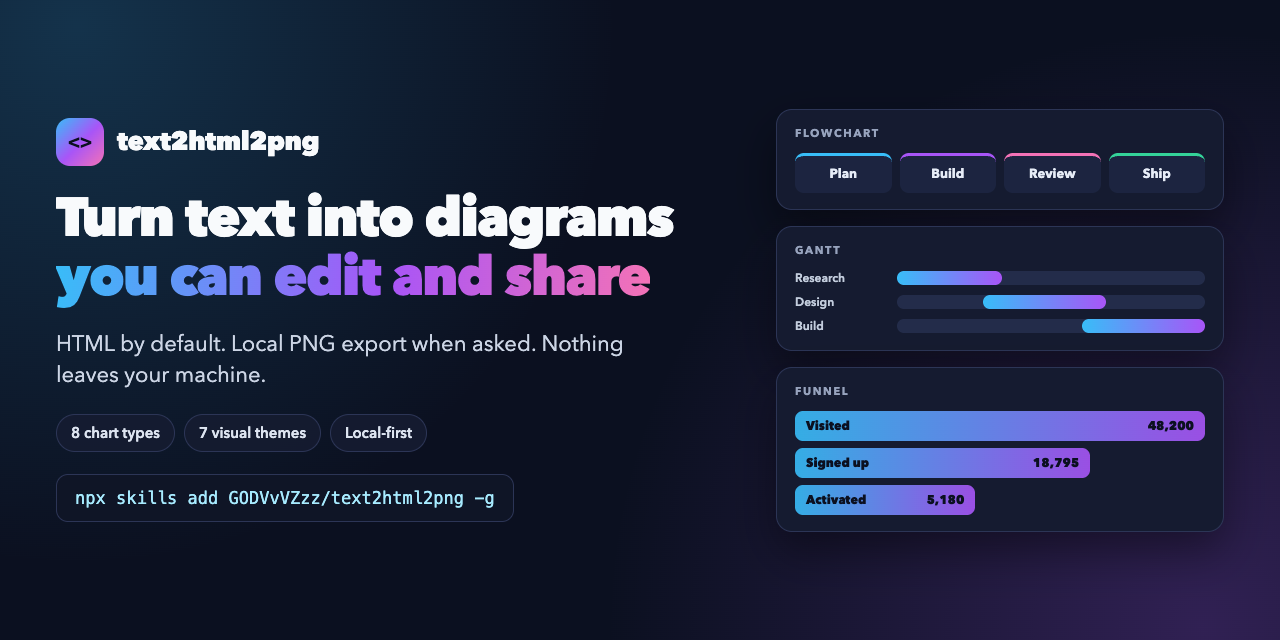
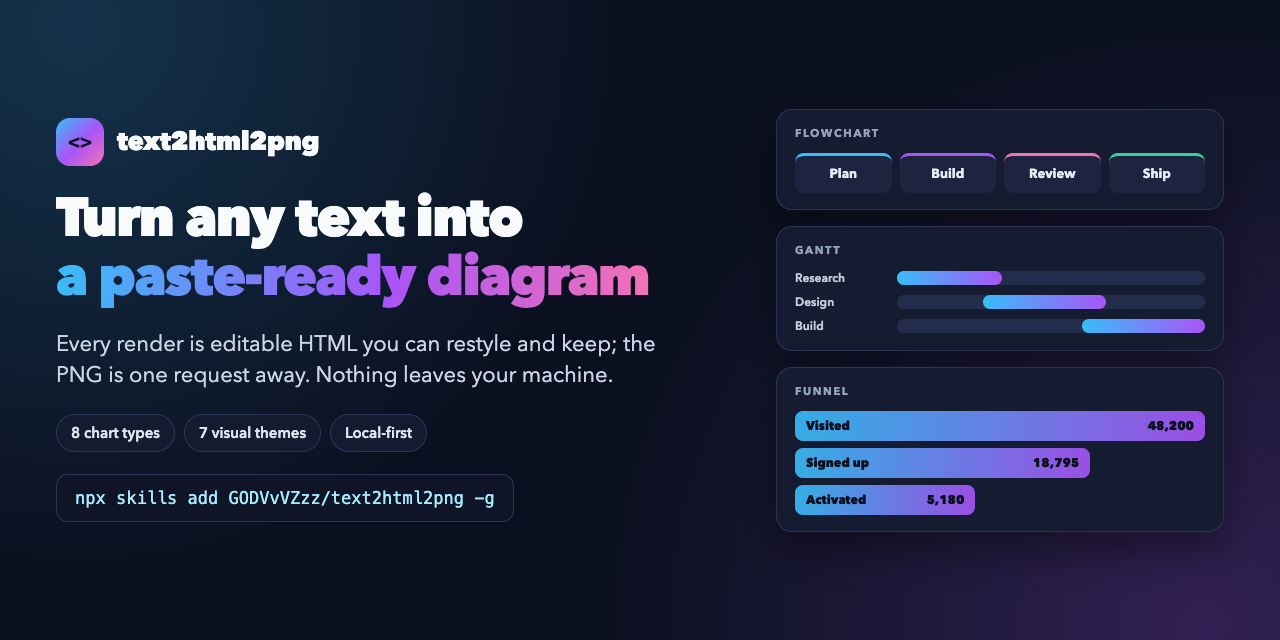
Lead the README and social card with the paste-ready image

Changed region(s): [[0.0312, 0.2812, 0.5312, 0.5], [0.0312, 0.5, 0.5312, 0.5938]]

diff --git a/assets/social-card.html b/assets/social-card.html
@@ -157,14 +157,14 @@
   </style>
 </head>
 <body>
-  <main class="wrap" aria-label="text2html2png turns text into editable HTML diagrams with optional PNG export">
+  <main class="wrap" aria-label="text2html2png turns any text into a paste-ready diagram backed by editable HTML">
     <section>
       <div class="mark">
         <div class="glyph"><span>&lt;&gt;</span></div>
         <div class="wordmark">text2html2png</div>
       </div>
-      <h1>Turn text into diagrams<br><span class="gradient">you can edit and share</span></h1>
-      <p class="lede">HTML by default. Local PNG export when asked. Nothing leaves your machine.</p>
+      <h1>Turn any text into<br><span class="gradient">a paste-ready diagram</span></h1>
+      <p class="lede">Every render is editable HTML you can restyle and keep; the PNG is one request away. Nothing leaves your machine.</p>
       <div class="chips">
         <div class="chip">8 chart types</div>
         <div class="chip">7 visual themes</div>

diff --git a/README.md b/README.md
@@ -1,7 +1,7 @@
 <div align="center">
   <img src="./skills/text2html2png/assets/logo.svg" width="720" alt="text2html2png">
-  <p><strong>Turn any text into an editable HTML diagram.</strong><br>
-  Export a PNG only when you ask for one. Nothing leaves your machine.</p>
+  <p><strong>Turn any text into a paste-ready diagram.</strong><br>
+  Every render is editable HTML; PNG export is one request away. Nothing leaves your machine.</p>
   <p>
     <a href="./README.zh-CN.md">简体中文</a>
     ·
@@ -22,13 +22,17 @@
   </p>
 </div>
 
-![One prompt becomes a polished editable HTML diagram, with PNG available on request](./skills/text2html2png/assets/hero.svg)
+<div align="center">
+  <img src="./skills/text2html2png/assets/gallery/launch-plan-en-paper.png" width="32.5%" alt="An eight-week conference Gantt chart in the paper theme, rendered in LXGW WenKai">
+  <img src="./skills/text2html2png/assets/gallery/signup-funnel-en-neon.png" width="32.5%" alt="A five-stage signup funnel in the neon theme">
+  <img src="./skills/text2html2png/assets/gallery/library-roadmap-en-editorial.png" width="32.5%" alt="A six-milestone plugin-API roadmap timeline in the editorial theme">
+</div>
 
-Most diagram tools ask you to draw. This one asks you to describe. You paste a plan, a spec, a meeting note, or a set of numbers; your agent picks the right chart, keeps your facts intact, and writes a self-contained HTML document. When you explicitly need a paste-ready image, it also renders a tightly cropped PNG in the browser you already have.
+Most diagram tools ask you to draw. This one asks you to describe. You paste a plan, a spec, a meeting note, or a set of numbers; your agent picks the right chart, keeps your facts intact, and hands you a paste-ready image — backed by a self-contained HTML document you can restyle and keep. Carbon and ray.so do this for code snippets; this skill does it for any structured text. When you explicitly need the picture, it renders a tightly cropped PNG in the browser you already have.
 
 - **8 chart types** — flowchart, comparison, timeline, architecture, dashboard, Gantt, org chart, funnel
 - **7 visual themes** — warm, dark, minimal, editorial, neon, paper, glass
-- **HTML first, PNG on request** — the default call writes one editable HTML file; ask for `--png` when you need a paste-ready image
+- **A picture you can paste, a document you can keep** — the deliverable is one editable HTML file; say “also export a PNG” or pass `--png` when you want the image itself
 - **Measured, not hoped for** — a browser-based layout audit is a required step of the workflow and a CI gate for every published example
 - **Local-first** — no hosted rendering API, no API key, no telemetry, network blocked during render
 
@@ -42,7 +46,7 @@ Then ask your agent, in plain language:
 
 > Turn our launch plan into a Gantt chart: research weeks 1–2, design weeks 2–4, build weeks 4–7, beta week 8. Use the paper theme.
 
-You get one editable `.html` file by default. Add “also export a PNG” or `--png` when you want both files.
+The chart arrives as an editable `.html` file — restyle it, tweak the copy, keep it in Git. Add “also export a PNG” or `--png` when you want the paste-ready image too.
 
 The `skills` CLI places the skill for the agent you name. To target one explicitly:
 
@@ -127,7 +131,7 @@ Browser-audit and optional PNG-export behavior:
 - refuses to overwrite an existing PNG unless `--force` is explicit;
 - caps dimensions and total render pixels.
 
-No PNG is created unless the user asks for one. The default artifact is HTML.
+The paste-ready image is rendered only when you ask for it; until then your content stays as an editable HTML file on disk.
 
 Use `--allow-network` only when you actually want remote assets. Use `--no-sandbox` only inside a trusted isolated container. Read [SECURITY.md](./SECURITY.md) before rendering HTML from a source you do not trust, and [PRIVACY.md](./PRIVACY.md) for exactly what does and does not leave your machine.
 
@@ -155,7 +159,7 @@ If you ask for Mermaid, draw.io, Excalidraw, or editable SVG, the skill delibera
 ├── skills/text2html2png/
 │   ├── SKILL.md                  the skill contract the agent reads
 │   ├── references/               8 chart guides, 7 theme systems, shared contracts
-│   ├── examples/                 9 examples: HTML + metadata sidecar
+│   ├── examples/                 9 bilingual examples: per-locale HTML + fixtures
 │   ├── scripts/                  render, validate, audit, batch tooling
 │   └── tests/                    including a real Chrome smoke test
 └── .github/                      CI, issue and PR templates
@@ -190,7 +194,7 @@ Useful individual commands:
 | `npm run audit:layout -- --html x.html --width 1040 --json` | Audit one document, machine-readable |
 | `node ../../scripts/build-gallery.mjs` | Regenerate the published gallery and prompt index |
 
-The validated [theme/chart orthogonality proof](./experiments/theme-decoupling/README.md) demonstrates one comparison structure restyled across seven themes in Chinese and English. Its PNGs are development review artifacts; normal skill calls still return HTML unless PNG is requested.
+The validated [theme/chart orthogonality proof](./experiments/theme-decoupling/README.md) demonstrates one comparison structure restyled across seven themes in Chinese and English. Its PNGs are development review artifacts; a normal call hands you the editable HTML and renders a PNG only when you ask.
 
 ## Roadmap
 

diff --git a/README.zh-CN.md b/README.zh-CN.md
@@ -1,7 +1,7 @@
 <div align="center">
   <img src="./skills/text2html2png/assets/logo.svg" width="720" alt="text2html2png">
-  <p><strong>把任意文字变成可编辑的 HTML 图表。</strong><br>
-  只有明确需要时才导出 PNG,内容不出本机。</p>
+  <p><strong>把任何文字变成一张能直接粘贴的图。</strong><br>
+  每次渲染都是可编辑的 HTML;PNG 一句话就能导出,内容不出本机。</p>
   <p>
     <a href="./README.md">English</a>
     ·
@@ -22,13 +22,17 @@
   </p>
 </div>
 
-![一句话描述变成精美的可编辑 HTML 图表,需要时再导出高清 PNG](./skills/text2html2png/assets/hero.svg)
+<div align="center">
+  <img src="./skills/text2html2png/assets/gallery/launch-plan-zh-paper.png" width="32.5%" alt="paper 风格的八周会议筹备甘特图,以霞鹜文楷渲染">
+  <img src="./skills/text2html2png/assets/gallery/signup-funnel-zh-neon.png" width="32.5%" alt="neon 风格的五阶段注册漏斗">
+  <img src="./skills/text2html2png/assets/gallery/library-roadmap-zh-editorial.png" width="32.5%" alt="editorial 风格的六里程碑插件 API 路线图时间线">
+</div>
 
-大多数绘图工具要你动手画,这个只要你把事情说清楚。你把一份计划、一段规格、一次会议记录或一组数字贴进去;你的 agent 选择合适的图表类型,保持你给出的事实不变,默认生成一份自包含的 HTML。只有你明确需要可粘贴图片时,才用本机浏览器额外渲染 PNG。
+大多数绘图工具要你动手画,这个只要你把事情说清楚。你把一份计划、一段规格、一次会议记录或一组数字贴进去;你的 agent 选择合适的图表类型,保持你给出的事实不变,交付一张能直接粘贴的图——图的底层是一份可以改样式、可以留档的自包含 HTML 文档。Carbon 和 ray.so 为代码片段做这件事,这个技能为任何结构化文字做这件事。需要图片时,它会用你本机已有的浏览器渲染一张裁切紧凑的 PNG。
 
 - **8 种图表** — 流程图、对比、时间线、架构图、KPI 看板、甘特图、组织架构、漏斗
 - **7 套视觉风格** — warm、dark、minimal、editorial、neon、paper、glass
-- **HTML 默认、PNG 按需** — 默认只写一份可编辑 HTML;需要图片时再说“同时导出 PNG”或传 `--png`
+- **一张图能直接粘贴,一份文档能留下来** — 交付物是一份可编辑的 HTML 文件;说一句“同时导出 PNG”或传 `--png`,就能拿到图本身
 - **质量是量出来的,不是赌出来的** — 基于浏览器的版面质检既是工作流的必经步骤,也是每个已发布示例的 CI 门禁
 - **本机优先** — 无托管渲染 API、无 API Key、无遥测,渲染期间网络全部拦截
 
@@ -42,7 +46,7 @@ npx skills add GODVvVZzz/text2html2png -g -y
 
 > 把我们的上线计划做成甘特图:调研第 1–2 周,设计第 2–4 周,开发第 4–7 周,内测第 8 周。用 paper 风格。
 
-默认会得到一份可编辑的 `.html`。如果明确说“同时导出 PNG”或传 `--png`,才会得到两个文件。
+图表以一份可编辑的 `.html` 交付——改样式、改文案、进 Git 都行。说一句“顺便导出 PNG”或传 `--png`,就能同时拿到能直接粘贴的图。
 
 `skills` CLI 会按你指定的 agent 放置技能。指定单个 agent:
 
@@ -127,7 +131,7 @@ node scripts/audit-layout.mjs --html /path/to/diagram.html --width 1040
 - 未显式传入 `--force` 时拒绝覆盖已存在的 PNG;
 - 限制尺寸与总渲染像素。
 
-除非用户明确提出,否则不会生成 PNG;默认产物始终是 HTML。
+能直接粘贴的图只在你开口时才渲染;在那之前,内容始终是一份留在磁盘上的可编辑 HTML 文件。
 
 只有确实需要远程素材时才使用 `--allow-network`。只有在可信的隔离容器内才使用 `--no-sandbox`。渲染来源不可信的 HTML 前请先读 [SECURITY.md](./SECURITY.md);想确认什么会、什么不会离开本机,请看 [PRIVACY.md](./PRIVACY.md)。
 
@@ -155,7 +159,7 @@ node scripts/audit-layout.mjs --html /path/to/diagram.html --width 1040
 ├── skills/text2html2png/
 │   ├── SKILL.md                  agent 读取的技能契约
 │   ├── references/               8 份图表指南、7 套风格系统、共享契约
-│   ├── examples/                 9 个示例:HTML + 元数据 sidecar
+│   ├── examples/                 9 个双语示例:每种语言一份 HTML + fixture
 │   ├── scripts/                  渲染、校验、质检、批处理工具
 │   └── tests/                    含真实 Chrome 冒烟测试
 └── .github/                      CI、issue 与 PR 模板
@@ -182,7 +186,7 @@ npm run check
 | `npm run audit:layout -- --html x.html --width 1040 --json` | 质检单个文档,输出机器可读结果 |
 | `node ../../scripts/build-gallery.mjs` | 重新生成画廊页与 prompt 索引 |
 
-已验证的[主题/图表正交性试验](./experiments/theme-decoupling/README.md)使用同一份 comparison 结构生成中英文各 7 个主题。试验 PNG 只用于开发评审;正常调用仍默认返回 HTML,只有明确要求时才导出 PNG。
+已验证的[主题/图表正交性试验](./experiments/theme-decoupling/README.md)使用同一份 comparison 结构生成中英文各 7 个主题。试验 PNG 只用于开发评审;正常调用交付的是可编辑 HTML,只有你开口时才渲染 PNG。
 
 ## 路线图
 

diff --git a/ASSET_PROVENANCE.md b/ASSET_PROVENANCE.md
@@ -15,7 +15,7 @@ All example content — names, numbers, dates, roles, and volumes — is synthet
 
 ## Vector assets
 
-`assets/logo.svg`, `assets/logo-dark.svg`, `assets/icon.svg`, and `skills/text2html2png/assets/hero.svg` are original vector artwork created for this open-source release.
+`assets/logo.svg`, `assets/logo-dark.svg`, and `assets/icon.svg` are original vector artwork created for this open-source release.
 
 ## What is deliberately absent
 
